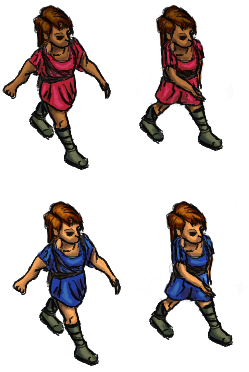
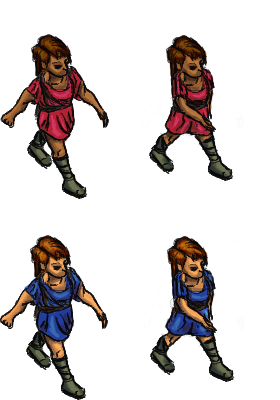
people getting usable

diff --git a/CodenameProjectTwo/AbstractClientItem.cs b/CodenameProjectTwo/AbstractClientItem.cs
@@ -164,16 +164,9 @@ namespace CodenameProjectTwo {
                 DelayUtil.delayUtil(600, () => CGlobal.textureVector.X = 1);
                 DelayUtil.delayUtil(900, () => isAnim = false);
             }
-            if (People && Type == 102){
-                //137 173
-                if (CGlobal.textureVector.X == 0)
-                    Sprite.TextureRect = new IntRect(0, intfaction * 173, 137, 173);
-                else
-                    Sprite.TextureRect = new IntRect(138, intfaction * 173, 110, 173);
-            }
-
-            if (People && Type == 100) {
-                Sprite.TextureRect = new IntRect(CGlobal.textureVector.X * 124, intfaction * 173, 124, 173);
+            if (People && Type == 102 || People && Type == 100) {
+                //137 173 total:249
+                Sprite.TextureRect = new IntRect(CGlobal.textureVector.X * 140, intfaction * 200, 140, 200);
             }
 
             if (People && Type == 101) {

diff --git a/CodenameProjectTwo/Client.cs b/CodenameProjectTwo/Client.cs
@@ -199,7 +199,7 @@ namespace CodenameProjectTwo
             //load people textures
             CGlobal.PEOPLE_TEXTURES[0] = new Texture("assets/graphics/units/Bauer.png");
             CGlobal.PEOPLE_TEXTURES[1] = new Texture("assets/graphics/units/soldier.png");
-            CGlobal.PEOPLE_TEXTURES[2] = new Texture("assets/graphics/units/stoneman.png");
+            CGlobal.PEOPLE_TEXTURES[2] = new Texture("assets/graphics/units/stonepeople.png");
         }
     }
 }
